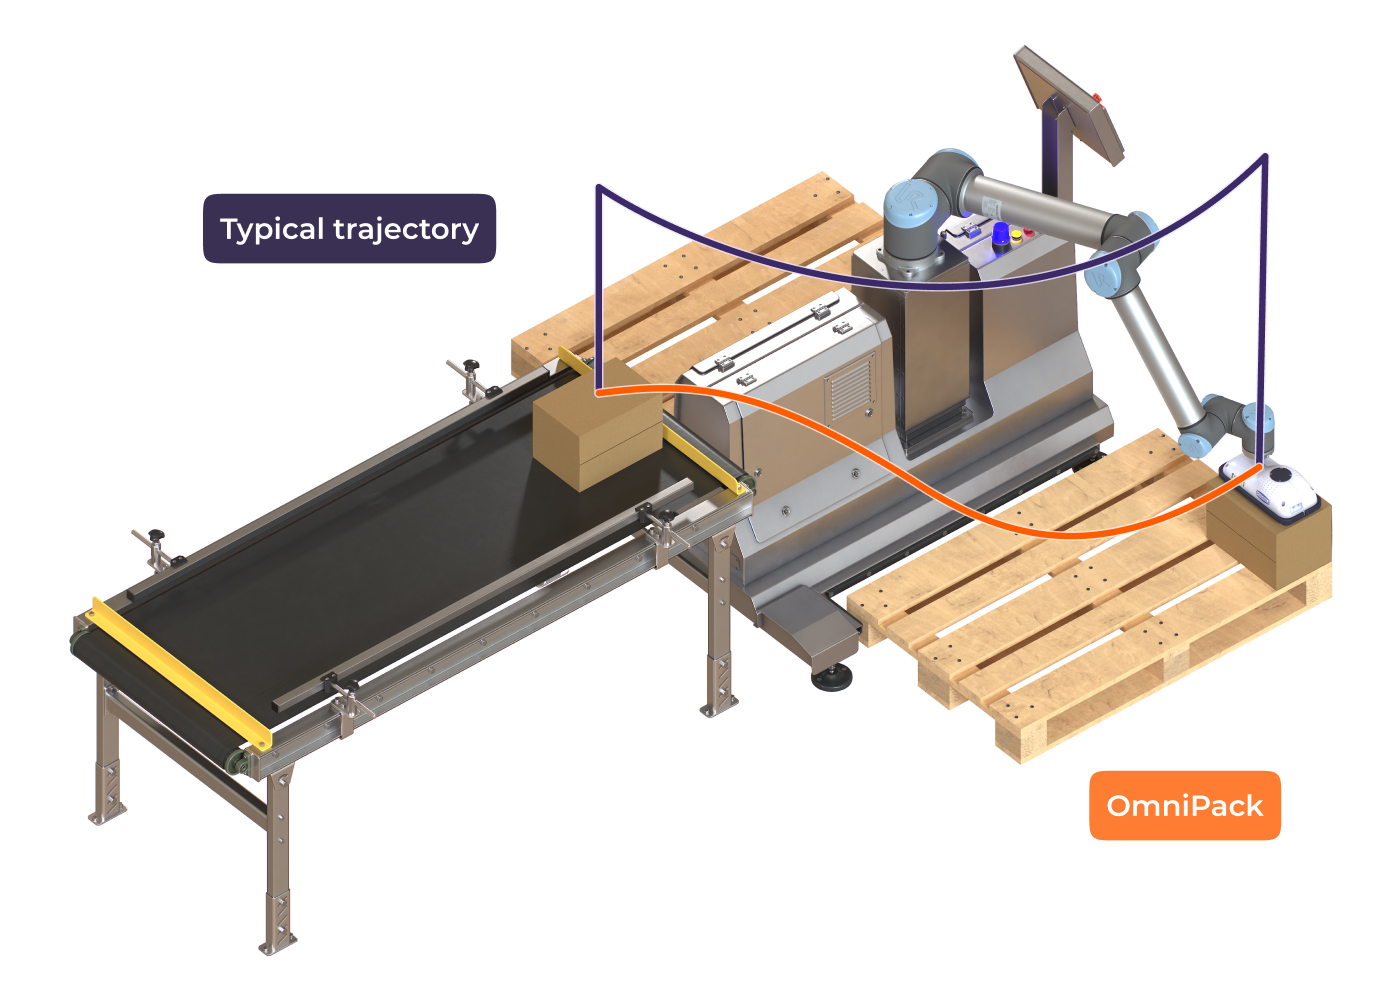
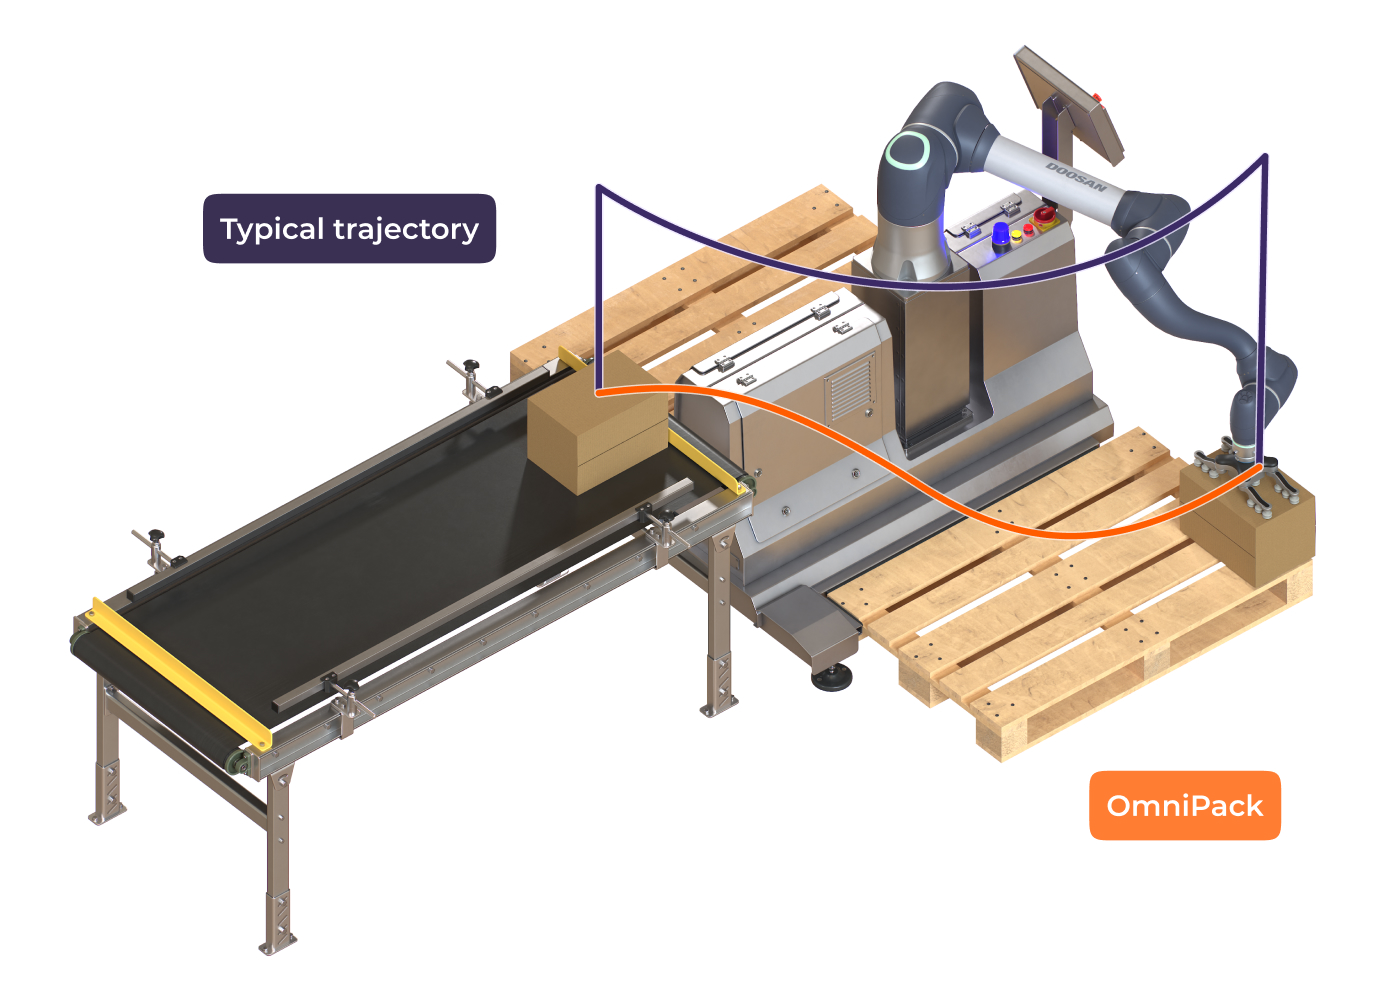
New dev deploy from 16/5/2021

diff --git a/styles/chunk4.main.css b/styles/chunk4.main.css
@@ -619,7 +619,7 @@
   width: 440px;
   height: 526px;
   position: relative;
-  background-image: url(/assets/images/robot-steel.jpg);
+  background-image: url(/assets/images/doosan-home.jpg);
   background-repeat: no-repeat;
   background-size: contain;
   z-index: 3;
